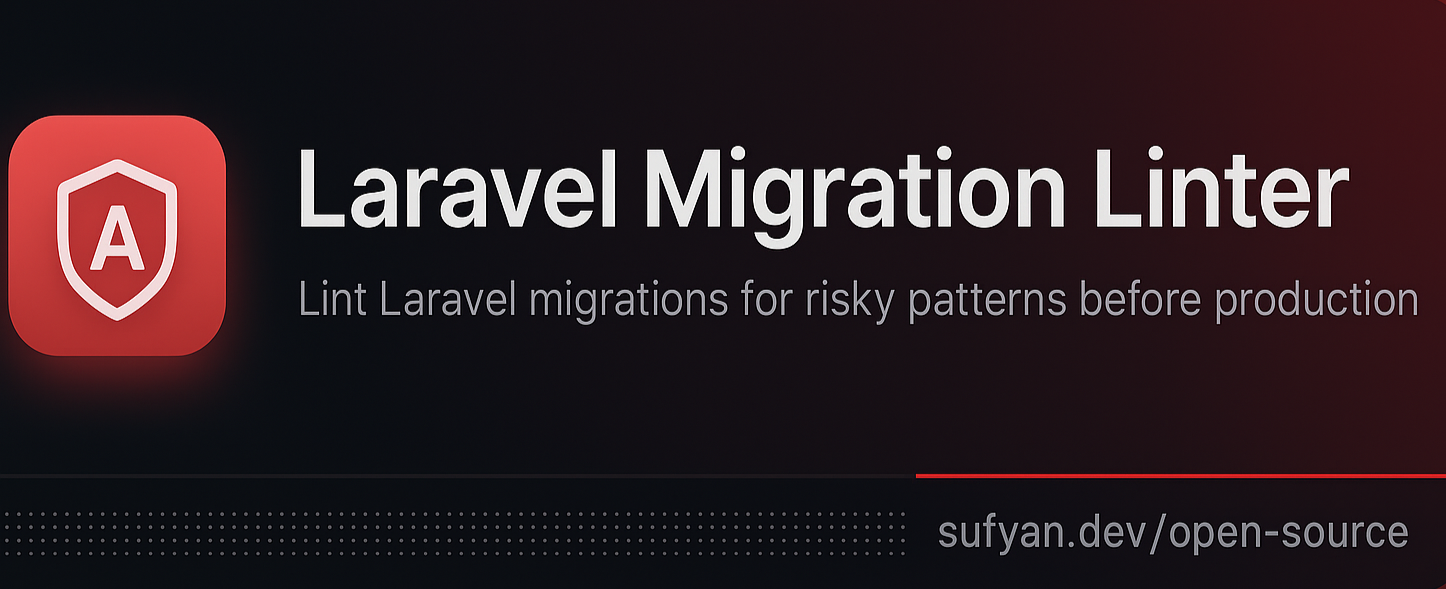
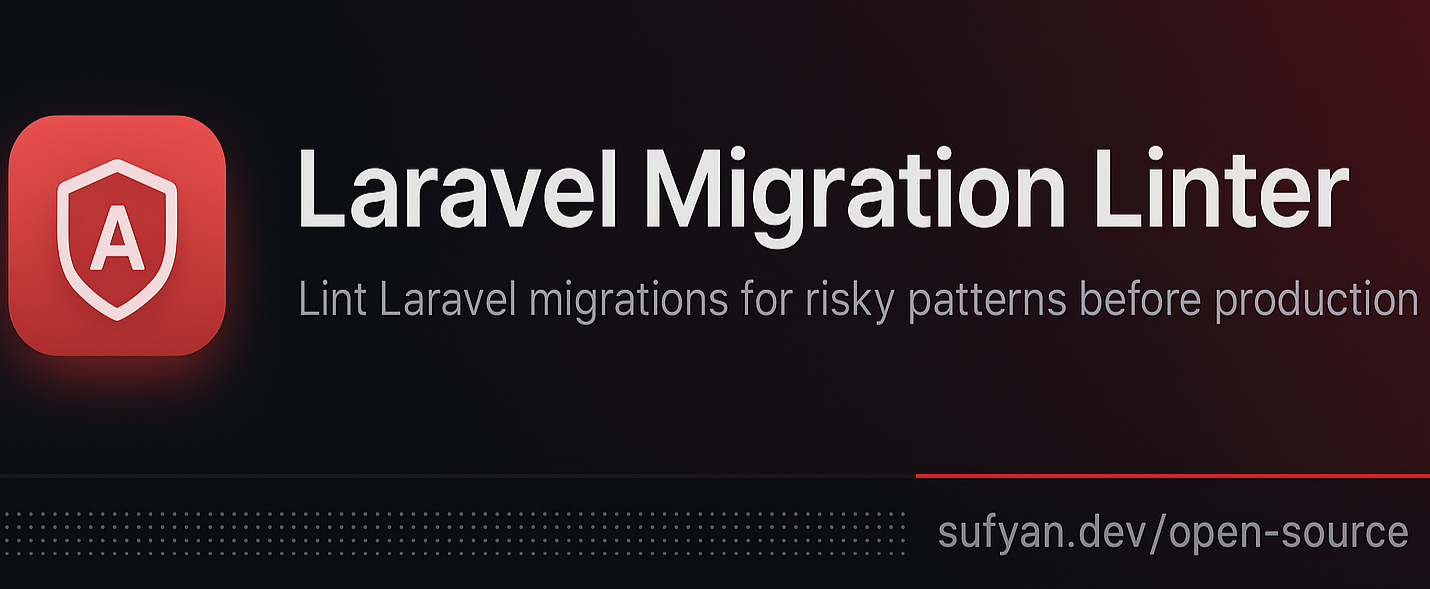
Update preview image in README and docs Hero section

diff --git a/docs-site/src/pages/index.js b/docs-site/src/pages/index.js
@@ -38,11 +38,11 @@ export default function Home() {
 
           <div className="hero-image">
             <img
-              src="/sufyan-laravel-migration-lint-package/img/hero-preview.png"
+              src="/sufyan-laravel-migration-lint-package/img/preview.png"
               alt="Laravel Migration Linter Preview"
-              width="850"
+              width="800"
+              height="250"
             />
-            <p className="hero-caption">Screenshot from v1.1.0</p>
           </div>
         </section>
       </main>
